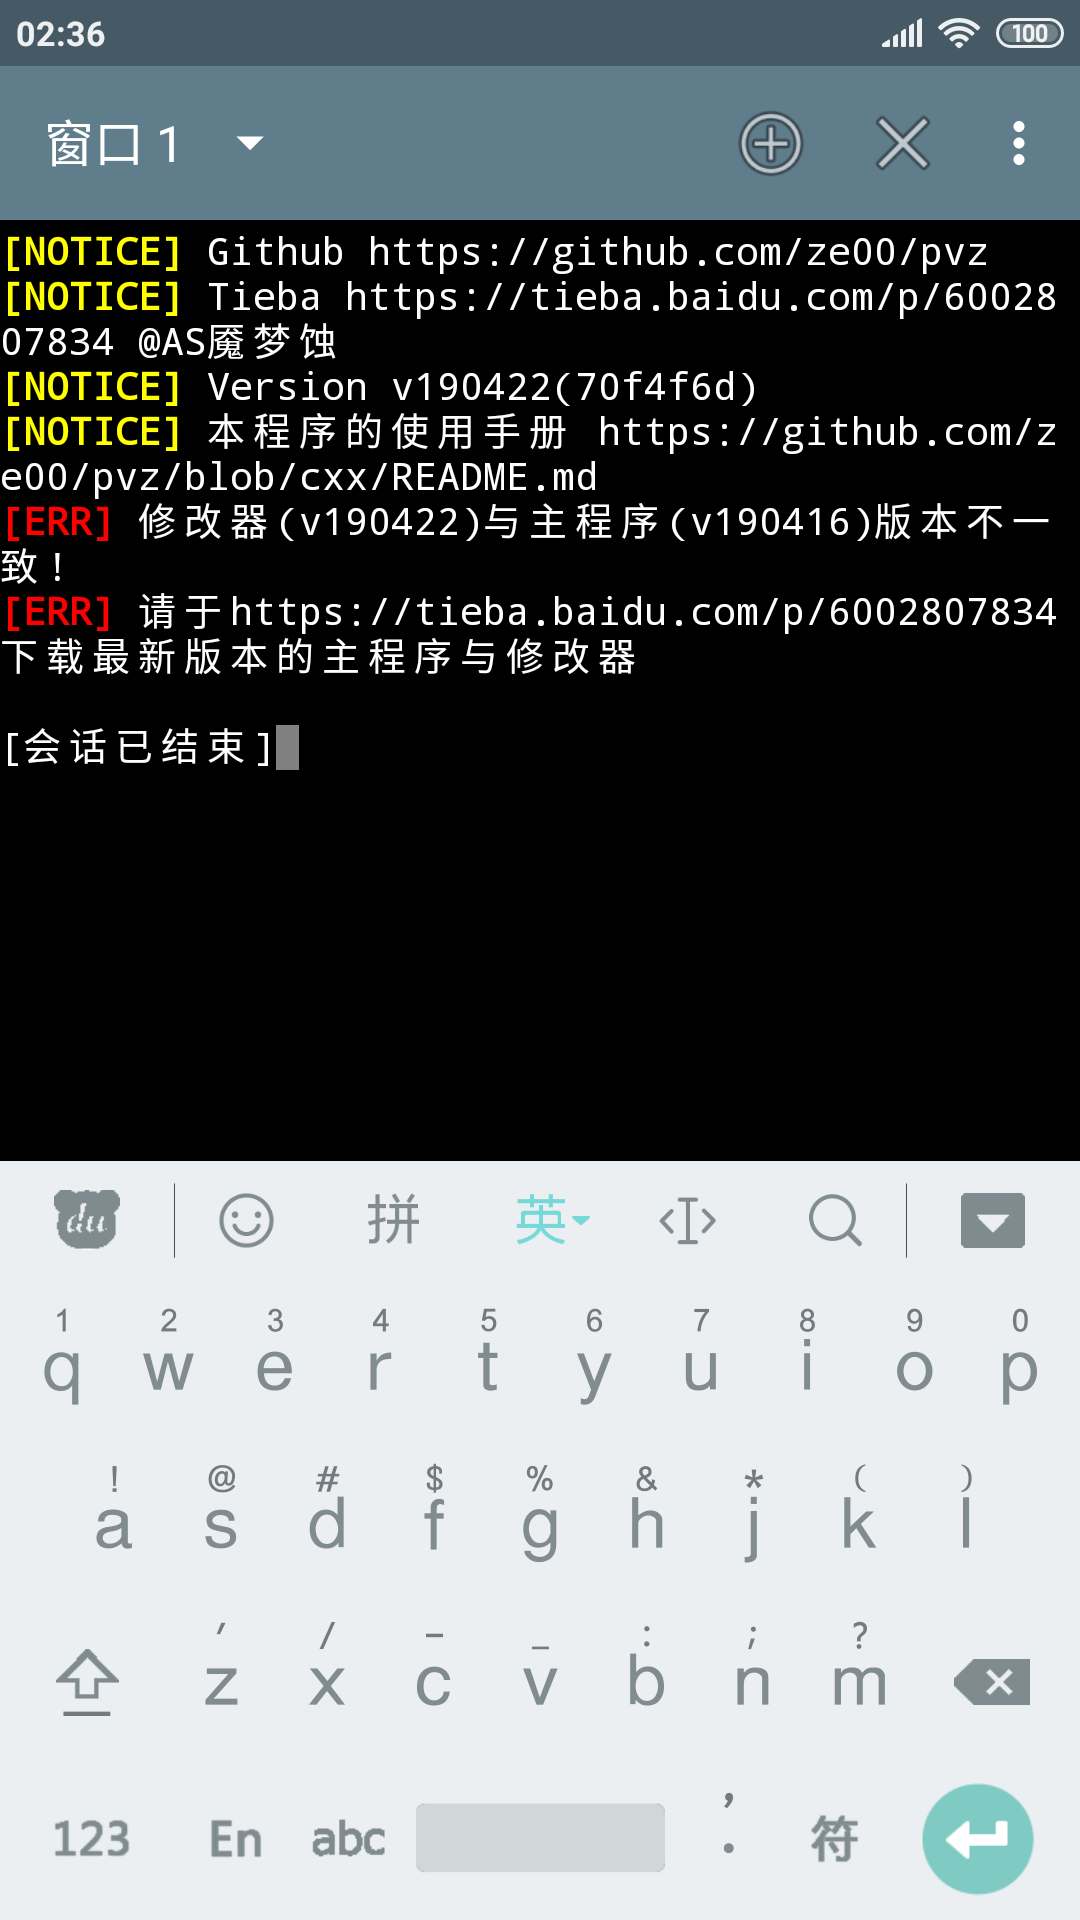
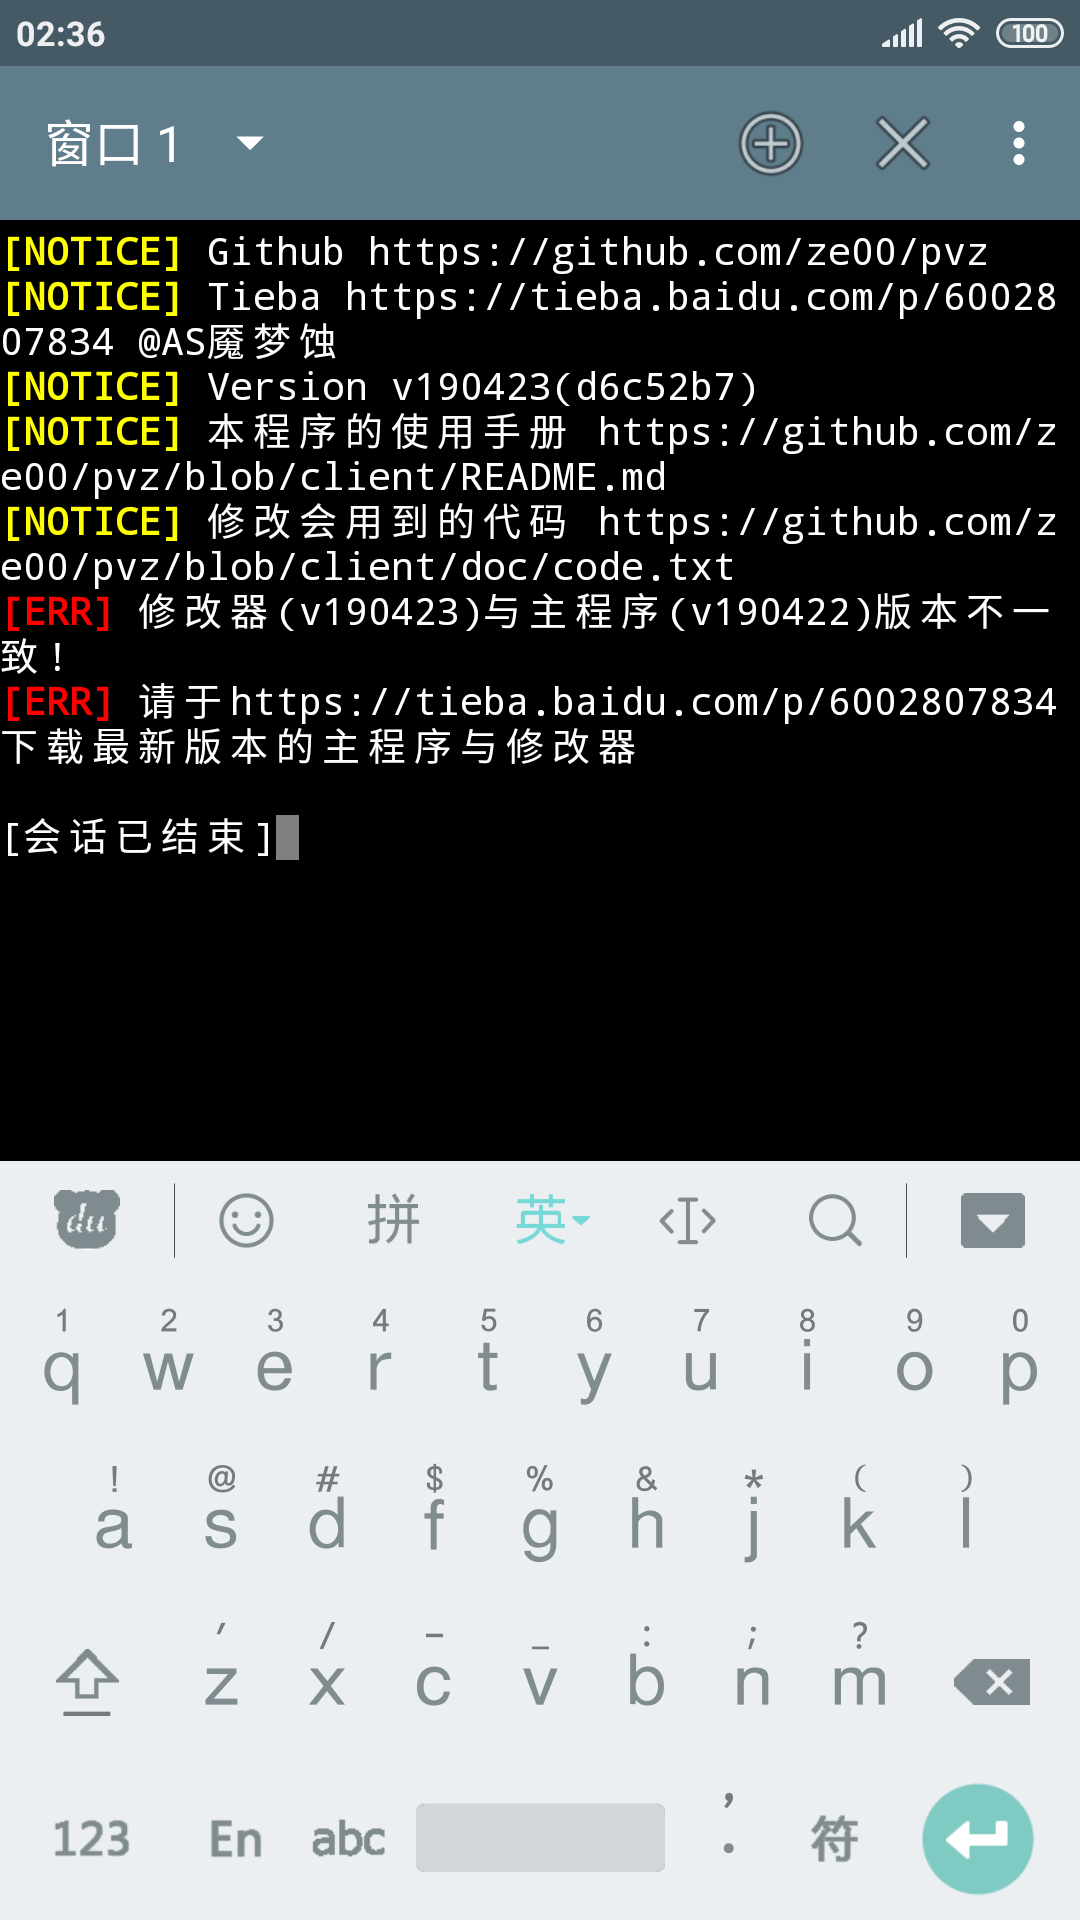
clean code && setCards && putLadder

Changed region(s): [[0.0, 0.1875, 0.9778, 0.4688]]

diff --git a/src/server/PvzCheats.cc b/src/server/PvzCheats.cc
@@ -26,9 +26,6 @@ DEFINE_NORMAL_CHEAT(freePlants) {
 DEFINE_NORMAL_CHEAT(disableFreePlants) {
   setI32(incrBase(OFF_FREE_PLANTS), 0);
 }
-DEFINE_OBJECT_CHEAT(zombiesButterCover) {
-  setI32(incr(object, OFF_ZOMBIE_BUTTER_COVER), 5000);
-}
 DEFINE_NORMAL_CHEAT(setCoin) {
   setI32(incrSaves(OFF_COIN), msg->val);
 }
@@ -118,6 +115,20 @@ DEFINE_NORMAL_CHEAT(switchField) {
 DEFINE_NORMAL_CHEAT(setAdventureLevel) {
   setI32(incrSaves(OFF_ADVENTURE_LEVEL), msg->val);
 }
+DEFINE_NORMAL_CHEAT(setCards) {
+  void *card = getPtr(incrStatus(OFF_CARDS_ENTRY));
+  size_t cnt = getU32(incr(card, PROP_CARD_COUNT));
+  std::vector<int> &&seeds = parseInts(msg->msg);
+  if (seeds.size() > cnt)
+    com->sendMessage(
+        makeMsgPack(0, "Seeds count is more than your brought slot count",
+                    msgStatus::REMOTE_ERROR));
+  card = incr(card, PROP_FIRST_CARD_ENTRY);
+  for (auto &&seed : seeds) {
+    setI32(incr(card, PROP_CARD_SEED), seed);
+    card = incr(card, PROP_CARD_OFFSET);
+  }
+}
 DEFINE_OBJECT_CHEAT(__pickupGood) {
   if (in_range(getI32(incr(object, OFF_GOOD_TYPE)), 1, 4))
     setI32(incr(object, OFF_GOOD_PICKUP), 1);
@@ -126,19 +137,38 @@ DEFINE_DAEMON_CHEAT(autoPickup) {
   eachGood(com, __pickupGood);
   usleep(500000);
 }
+static std::vector<PvzPoint> *__ladderPoints;
+DEFINE_OBJECT_CHEAT(__putLadder) {
+  if (__ladderPoints->empty() ||
+      getI32(incr(object, OFF_ZOMBIE_CODE)) != PROP_LADDER_CODE)
+    return;
+  auto &&point = __ladderPoints->back();
+  float y = point.y * 100;
+  setF32(incr(object, OFF_ZOMBIE_POS_X), y);
+  setF32(incr(object, OFF_ZOMBIE_POS_Y), y);
+  setI32(incr(object, OFF_ZOMBIE_ROW), point.x - 1);
+  __ladderPoints->pop_back();
+}
+DEFINE_NORMAL_CHEAT(putLadder) {
+  std::vector<PvzPoint> &&ladderPoints = parsePoints(msg->msg);
+  __ladderPoints = &ladderPoints;
+  eachZombie(com, __putLadder);
+}
 DEFINE_OBJECT_CHEAT(triggerMowers) {
   setI32(incr(object, OFF_MOWER_TRIGGER), PROP_TRIGGER_MOWER);
+}
+DEFINE_OBJECT_CHEAT(zombiesButterCover) {
+  setI32(incr(object, OFF_ZOMBIE_BUTTER_COVER), 5000);
 }
 #endif
 #define HINT_INT "请输入一个数字"
 #define HINT_INTS "请输入一串以英文逗号分割的数字"
+#define HINT_POINTS "请输入行列(两个行列以,分割,行列以.分割)"
 DEFINE_EXTERNAL_OPTIONS(
     DEFINE_OPTION(GAMING | GETINT, "设置阳光", HINT_INT, setSun),
     DEFINE_OPTION(GETINT, "设置金币", HINT_INT, setCoin),
     DEFINE_OPTION(NONE, "免费植物", nullptr, freePlants),
     DEFINE_OPTION(NONE, "禁用免费植物", nullptr, disableFreePlants),
-    DEFINE_OPTION(GAMING | ZOMBIES_CALLBACK, "黄油糊脸", nullptr,
-                  .object_callback = zombiesButterCover),
     DEFINE_OPTION(GAMING, "只出梯子", nullptr, callLadders),
     DEFINE_OPTION(GAMING, "只出巨人", nullptr, callGargantuar),
     DEFINE_OPTION(GAMING | GETINTS, "自定义出怪列表", HINT_INTS,
@@ -147,13 +177,18 @@ DEFINE_EXTERNAL_OPTIONS(
     DEFINE_OPTION(GAMING | GETINT, "设置旗数", HINT_INT, setFlags),
     DEFINE_OPTION(GAMING | GETINT, "设置模式", HINT_INT, switchMode),
     DEFINE_OPTION(GAMING | GETINT, "设置场景", HINT_INT, switchField),
-    DEFINE_OPTION(NONE | GETINT, "设置冒险关卡", HINT_INT, setAdventureLevel),
+    DEFINE_OPTION(GAMING | GETINTS, "设置卡槽", HINT_INTS, setCards),
+    DEFINE_OPTION(GETINT, "设置冒险关卡", HINT_INT, setAdventureLevel),
     DEFINE_OPTION(DAEMON_CALLBACK, "自动拾取", nullptr,
                   .daemon_callback = autoPickup),
     DEFINE_OPTION(CANCEL_DAEMON_CALLBACK, "取消自动拾取", nullptr, nullptr),
     DEFINE_OPTION(NONE, "解锁各游戏模式", nullptr, unlockAll),
+    DEFINE_OPTION(GAMING | GETPOINTS, "移动场上梯子僵尸", HINT_POINTS,
+                  putLadder),
     DEFINE_OPTION(GAMING | MOWERS_CALLBACK, "触发推车", nullptr,
                   .object_callback = triggerMowers),
+    DEFINE_OPTION(GAMING | ZOMBIES_CALLBACK, "黄油糊脸", nullptr,
+                  .object_callback = zombiesButterCover),
     DEFINE_OPTION(GAMING | ZOMBIES_CALLBACK, "打印僵尸对象", nullptr,
                   .object_callback = printObject),
     DEFINE_OPTION(GAMING | PLANTS_CALLBACK, "打印植物对象", nullptr,

diff --git a/inc/server/Pvz.h b/inc/server/Pvz.h
@@ -91,6 +91,7 @@ void eachObject(Communicator *, off_t, off_t, object_callback);
 #define OFF_STORE_GOOD_SLOT 0x384
 #define OFF_STORE_GOOD_END 0x3fc
 // -- Status
+#define OFF_CARDS_ENTRY 0x168
 #define OFF_FLAGS_HELPER 0x294
 #define OFF_FLAGS 0x6c
 #define OFF_MODE 0x838
@@ -106,6 +107,10 @@ void eachObject(Communicator *, off_t, off_t, object_callback);
 // -- Base
 #define OFF_ZOMBIES_LIST 0x810
 // -- Zombies
+#define OFF_ZOMBIE_ROW 0x1c
+#define OFF_ZOMBIE_CODE 0x30
+#define OFF_ZOMBIE_POS_X 0x38
+#define OFF_ZOMBIE_POS_Y 0x3c
 #define OFF_ZOMBIE_BUTTER_COVER 0xbc
 
 #define PROP_THIEF_CODE 20
@@ -115,5 +120,10 @@ void eachObject(Communicator *, off_t, off_t, object_callback);
 
 #define PROP_TRIGGER_MOWER 2
 #define PROP_NINE_SLOT 3
+
+#define PROP_FIRST_CARD_ENTRY 0x34
+#define PROP_CARD_COUNT 0x30
+#define PROP_CARD_SEED 0x40
+#define PROP_CARD_OFFSET 0x5c
 
 #endif // INC_SERVER_PVZ_H

diff --git a/README.md b/README.md
@@ -7,7 +7,9 @@
 
   * 效果
 
-    ![effect](doc/images/effect.png)
+    ![effect_0](doc/images/effect_0.png)
+
+    ![effect_1](doc/images/effect_1.png)
 ## 支持什么功能?
   ```
   0.设置阳光
